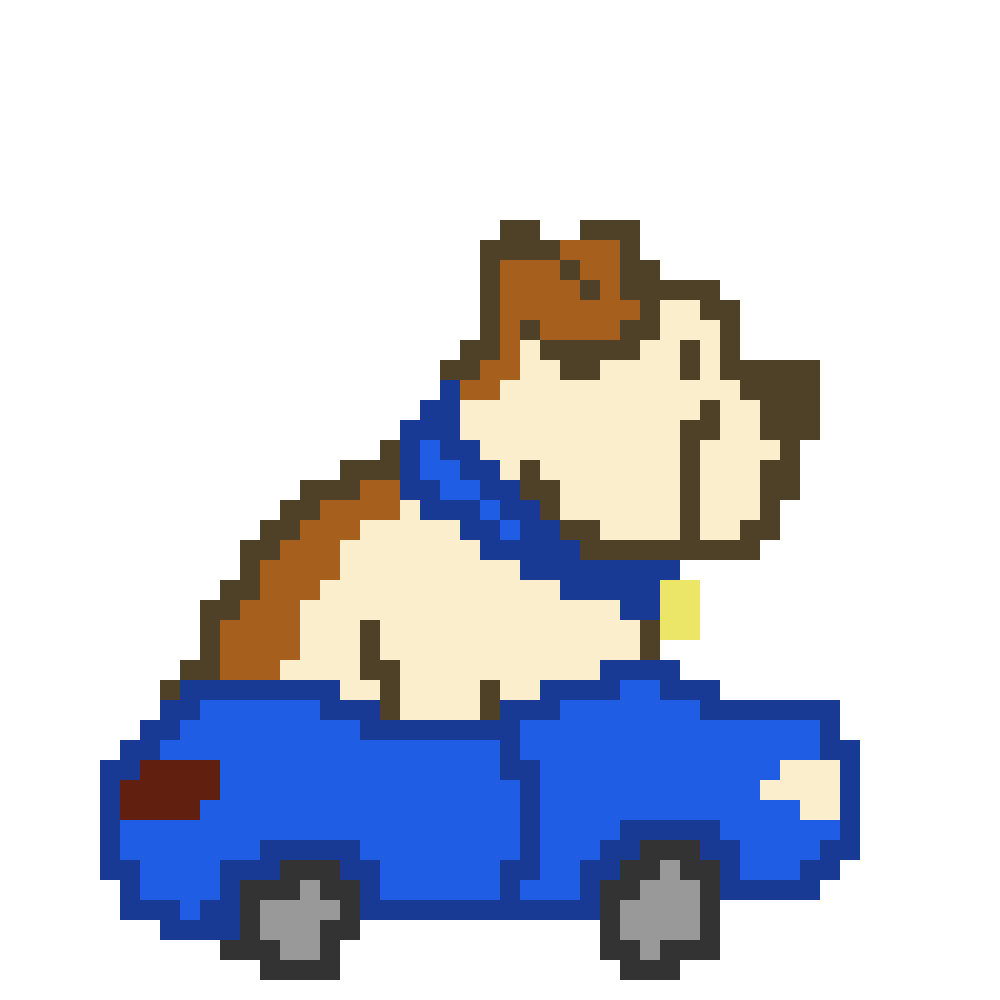
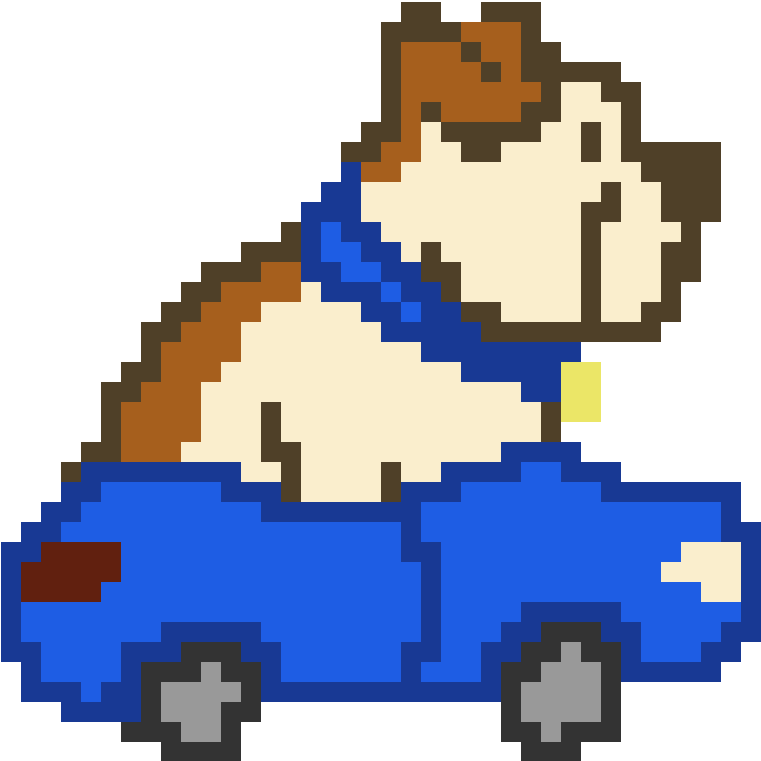
adjusted the size of techie and edited main.py

diff --git a/main.py b/main.py
@@ -17,18 +17,21 @@ clock = pygame.time.Clock()
 WINDOW = pygame.display.set_mode((WINDOW_WIDTH, WINDOW_HEIGHT))
 pygame.display.set_caption("TechTime Racers") # Window name
 
+# Techie "Animations"
+techie_run = [pygame.image.load(os.path.join("Assets/Techie", "Techie Run Frame 1.png")), 
+            pygame.image.load(os.path.join("Assets/Techie", "Techie Run Frame 2.png"))]
+techie_jump = pygame.image.load(os.path.join("Assets/Techie", "Techie Jump.png"))
+techie_duck = pygame.image.load(os.path.join("Assets/Techie", "Techie Duck.png"))
 
 # Class for Techie, playable character
 class Player(pygame.sprite.Sprite):
-    run = [pygame.image.load(os.path.join("Assets/Techie", "Techie Run Frame 1.png")), 
-            pygame.image.load(os.path.join("Assets/Techie", "Techie Run Frame 2.png"))]
-    jump = pygame.image.load(os.path.join("Assets/Techie", "Techie Jump.png"))
-    duck = pygame.image.load(os.path.join("Assets/Techie", "Techie Duck.png"))
     def __init__(self, width, height, x_pos, y_pos):
         pygame.sprite.Sprite.__init__(self)
+        self.image = pygame.Surface((50, 50))
+        self.image.fill((0, 255, 0))
         self.rect = self.image.get_rect()
+        self.rect.center = (WINDOW_WIDTH / 2, WINDOW_HEIGHT / 2)
 
-# old code just incase for bg pygame.image.load(os.path.join("Assets/Backgrounds", "Inside_IESB.jpg")).convert()
 
 # Backgrounds
 main_menu_bg_img = pygame.image.load(os.path.join("Assets/Screens", "main menu.png"))
@@ -291,6 +294,10 @@ def level_select():
 
 # game event Loop
 def game(level_key):
+    all_sprites = pygame.sprite.Group()
+    player = Player()
+    all_sprites.add(player)
+
     # i is used to move the screen
     i = 0
     run = True
@@ -322,6 +329,11 @@ def game(level_key):
 
         i -= 10
 
+        # drawing the player
+        pX = 200
+        pY = 200
+
+
         clock.tick(60)
         for event in pygame.event.get():
             if event.type == QUIT:
@@ -330,6 +342,12 @@ def game(level_key):
             if event.type == KEYDOWN:
                 if event.key == K_ESCAPE:
                     run = False
+
+        # update sprites
+        all_sprites.update()
+
+        # draw sprites
+        all_sprites.draw(WINDOW)
 
         pygame.display.update()
 
